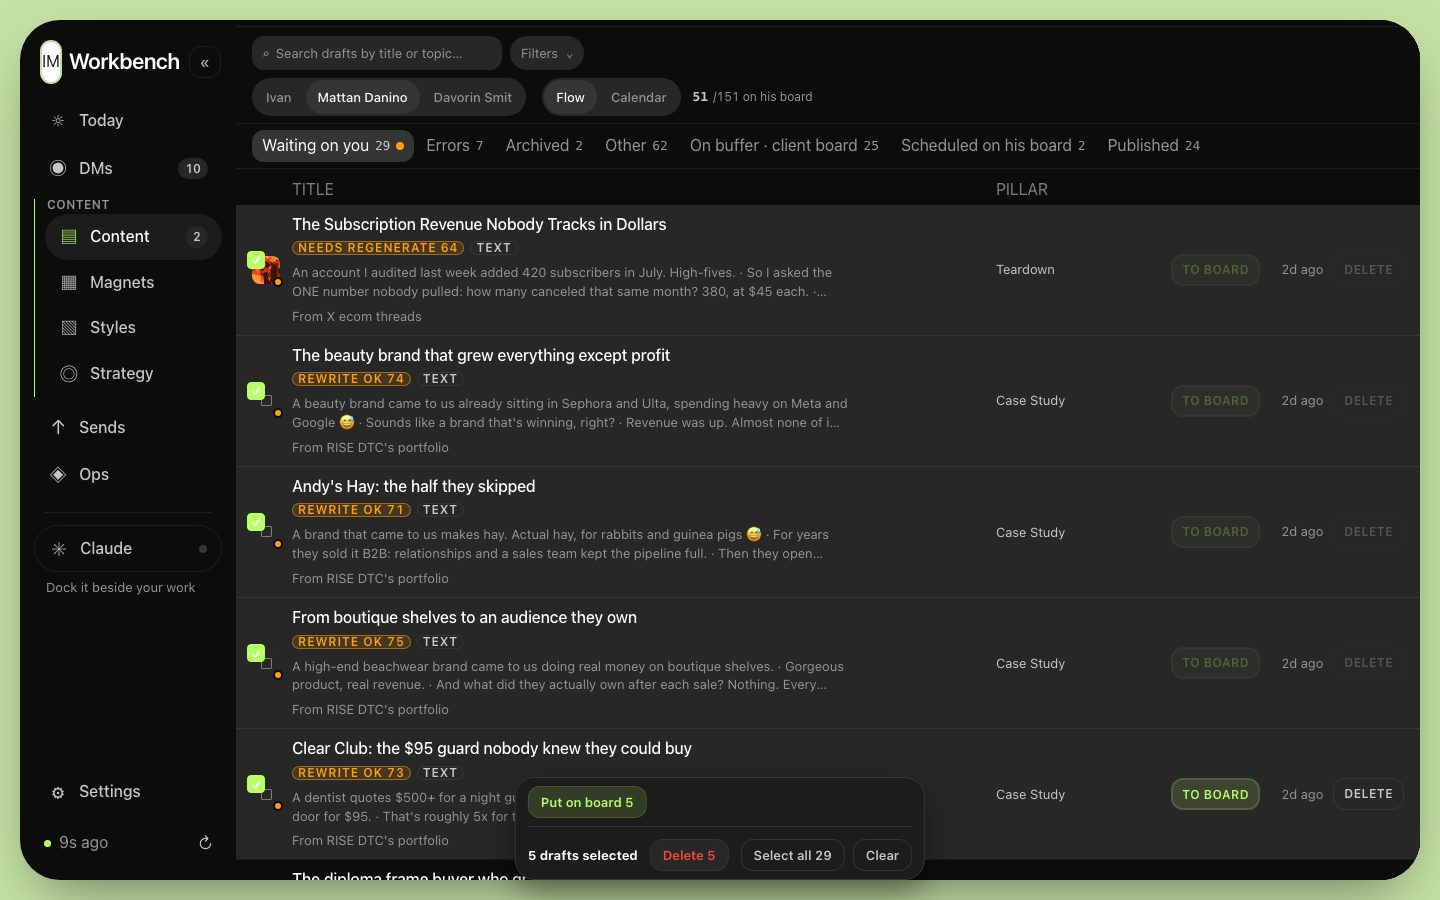
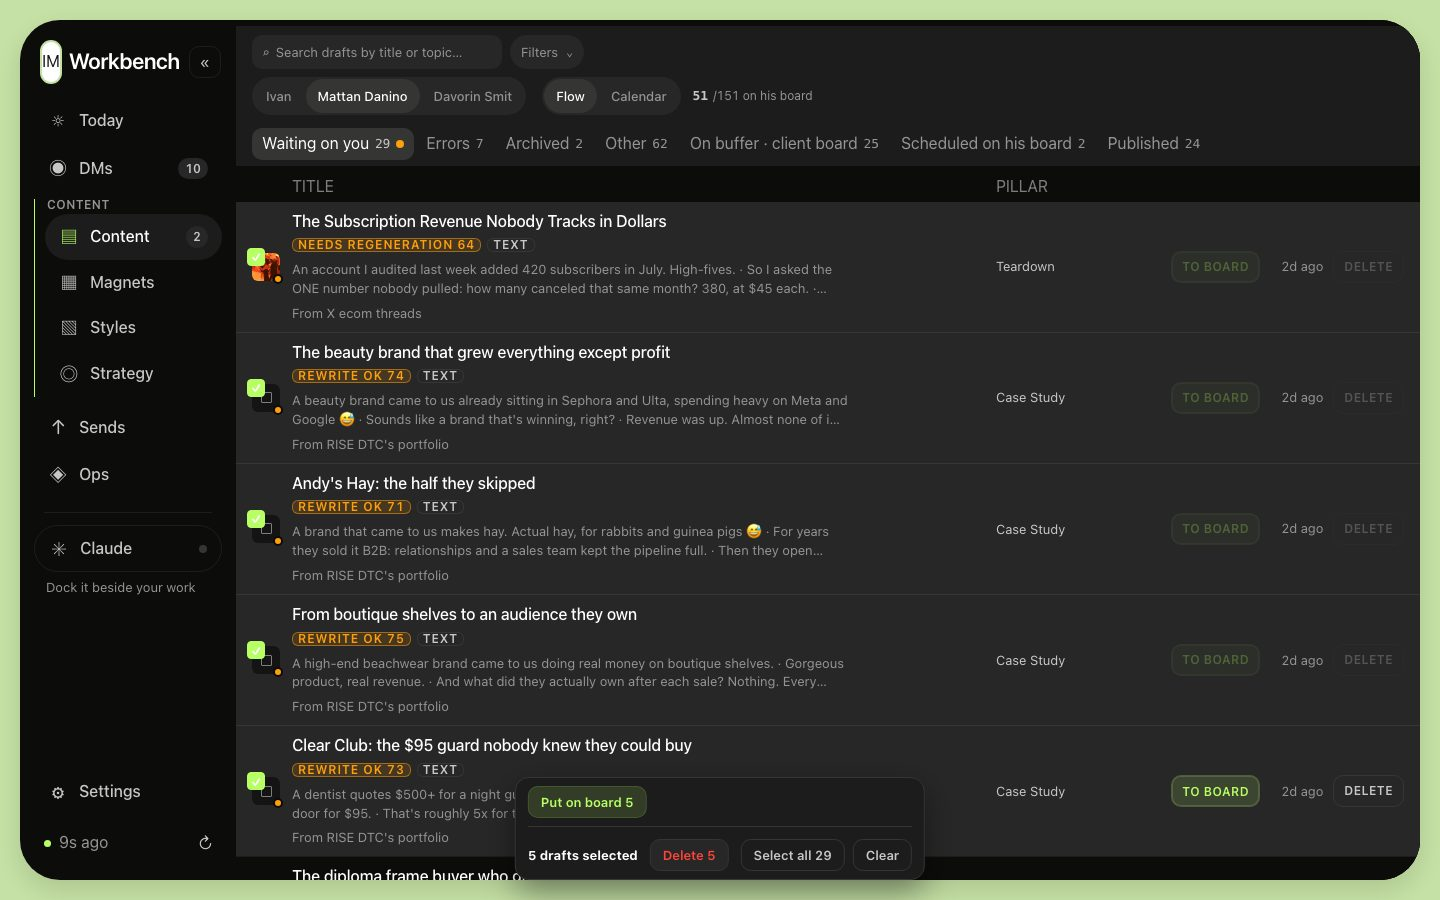
p4b: re-verified on the merged base, and one label regression fixed
wb/polish advanced twice under this branch and was merged in at 606242c.
The scheduling work touched calendarItems and ContentCalendar, which this
branch does not read. The label purge touched labels.ts, and the error
cards render through label(), so everything was re-run rather than assumed.

One real regression, found by re-running: the purge maps needs_regenerate
to 'Needs regeneration', which is the right label and made the commonest of
these sentences read 'Final verdict Needs regeneration, regeneration budget
spent'. The stutter was mine, so the sentence moved and now ends 'and the
retry budget is spent'. Both branches of the function moved together.

Re-run on the merged build: 55-row proof unchanged at 49 wrong to right,
build clean, 953 passing against a 934 baseline with the same known
calendarItems failure, Delete hitbox shift still 0, attempted writes still
0, #exp/stock still carrying no .wb scope at either viewport. Screenshots
retaken so every one shows the purged labels.

diff --git a/src/lib/content.ts b/src/lib/content.ts
@@ -2397,14 +2397,19 @@ export function draftFailure(d: FailureInput): DraftFailure {
         const tail = lintFails > 0
           ? ` ${lintFails} of the retries failed lint instead of scoring.`
           : ''
+        // "regeneration budget spent" until the label purge landed
+        // `needs_regenerate` -> "Needs regeneration", which made the commonest
+        // of these read "Final verdict Needs regeneration, regeneration budget
+        // spent". The label is right and the stutter is mine, so the sentence
+        // moves rather than the label.
         return {
           kind: 'qa', agent, detail: `${fv[2]}/${fv[3]}`,
-          reason: `QA scored it ${fv[2]} of ${fv[3]}, under the floor. Final verdict ${verdict}, regeneration budget spent.${tail}`,
+          reason: `QA scored it ${fv[2]} of ${fv[3]}, under the floor. Final verdict ${verdict}, and the retry budget is spent.${tail}`,
         }
       }
       return {
         kind: 'qa', agent, detail: null,
-        reason: `QA blocked it and the regeneration budget ran out${outcomes.length ? ` after ${outcomes.length} attempt(s)` : ''}.`,
+        reason: `QA blocked it and the retry budget ran out${outcomes.length ? ` after ${outcomes.length} attempt(s)` : ''}.`,
       }
     }
 

diff --git a/goal-runs/workbench-polish-2026-08-22-out/evidence/p4b-triage.md b/goal-runs/workbench-polish-2026-08-22-out/evidence/p4b-triage.md
@@ -45,12 +45,12 @@ is not there.
 
 | before | after |
 |---|---|
-| `Generation stuck — no completion within 25 minutes. Likely a silent workflow chain break.` | `QA scored it 63 of 130, under the floor. Final verdict Rewrite ok, regeneration budget spent.` |
+| `Generation stuck — no completion within 25 minutes. Likely a silent workflow chain break.` | `QA scored it 63 of 130, under the floor. Final verdict Rewrite ok, and the retry budget is spent.` |
 | `Generation stuck — no completion within 22 minutes. …` | `Lint Gate passed this. It finished, and it is filed as an error anyway.` |
 | `Generation stuck — no completion within 25 minutes. …` | `Lint gate refused it on nobody_reveal_family, and the rewrite did not clear it.` |
 | `Generation stuck — no completion within 23 minutes. …` | `Generation never returned. 1 attempt(s), none of which produced a draft.` |
 | `Generation stuck — no completion within 141 minutes. …` | `Generation stalled. The watchdog fired after 141 minutes and nothing has run since.` |
-| `Needs regenerate (score 0)` | `Hook Agent saved a model refusal instead of content. Nothing was written that is worth reviewing.` |
+| `Needs regeneration (score 0)` | `Hook Agent saved a model refusal instead of content. Nothing was written that is worth reviewing.` |
 | `Failed the language check` | `Lint Gate passed this after fixing contrast_closer. It finished, and it is filed as an error anyway.` |
 
 The 20,205-minute stall claim disappears without being special-cased. It was never a duration; it
@@ -315,9 +315,10 @@ comment, and `RowSelect` returns null when the command layer is not mounted.
 | | |
 |---|---|
 | `npm run build` (`tsc -b && vite build`) | clean |
-| `npm test` | see the re-verification note below |
+| `npm test` | **953 passing**, 1 failing |
+| baseline after merging `wb/polish` | 934 passing |
+| tests this branch adds | **19** (10 `draftFailure` in `content.test.ts`, 9 in `bulkPromote.test.ts`) |
 | known pre-existing failure | `calendarItems.test.ts > passing no queue is the old behaviour exactly` |
-| new tests | 10 in `content.test.ts` (`draftFailure`), 9 in `bulkPromote.test.ts` |
 
 The baseline was established on a clean checkout first, so the one failure is demonstrably not
 mine. It needed `.env.local` copied into the worktree: without it 20 test files fail at import with
@@ -327,6 +328,35 @@ Every fixture in the new `draftFailure` tests is a verbatim live body with its r
 comment. The end-to-end run over all 55 rows is deliberately kept OUT of `npm test` (its own config,
 per the convention in `vitest.config.ts`), because it reads a snapshot and must never be able to
 fail a deploy gate for being offline.
+
+## 7. Re-verified after `wb/polish` advanced
+
+The base branch moved twice while this was in flight: the label purge (`b11f543`) and the
+scheduling merge (`3b98100`). `wb/polish` was merged in at `606242c`. The scheduling work touched
+`calendarItems.ts` and `ContentCalendar.tsx`, neither of which this branch reads. The label purge
+touched `labels.ts`, `fmt.ts` and `faithful.css`, and the error cards **do** render through
+`label()`, so everything above was re-run rather than assumed.
+
+**One real regression found and fixed.** The purge maps `needs_regenerate` to "Needs regeneration",
+which is the right label. It made the commonest of these sentences read *"Final verdict Needs
+regeneration, regeneration budget spent"*. The label is right and the stutter was mine, so the
+sentence moved: it now ends *"and the retry budget is spent"*. The other branch of the same
+function moved with it, so the two cannot drift.
+
+Re-run on the merged build, all of it:
+
+| | |
+|---|---|
+| 55-row reason proof | unchanged: 55 changed, 28 stale stalls corrected, 21 chip echoes named, **49 wrong to right** |
+| `npm run build` | clean |
+| `npm test` | 953 passing, the same single `calendarItems.test.ts` failure |
+| authed UI, 1440 and 390 | 48 error cards, 0 claiming a stall, 48 Retry, 29 client rows with `To board` |
+| Delete hitbox | 649.8 to 728.6 before and after, shift **0** |
+| **attempted writes** | **0** |
+| `#exp/stock` | 0 `.wb` elements, 0 p4b classes, 0 `[data-kind]`, at both viewports |
+
+Screenshots in `after/` were retaken against the merged build, so every one of them shows the
+purged labels.
 
 ## Files
 
